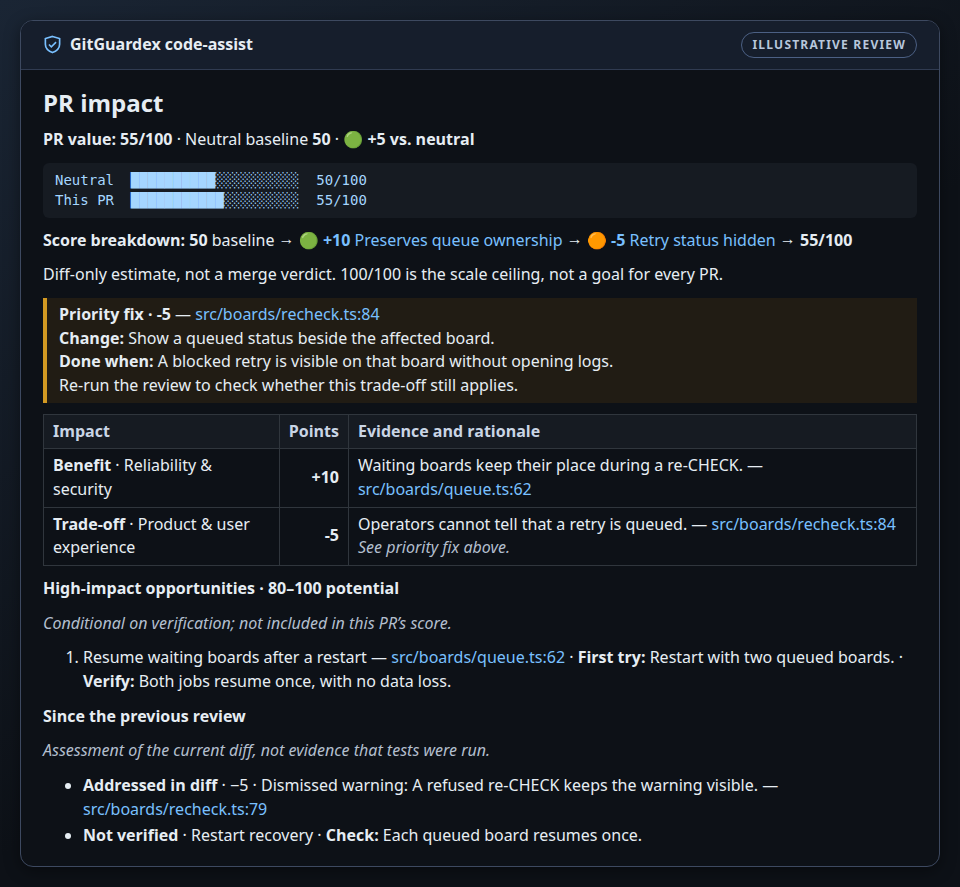
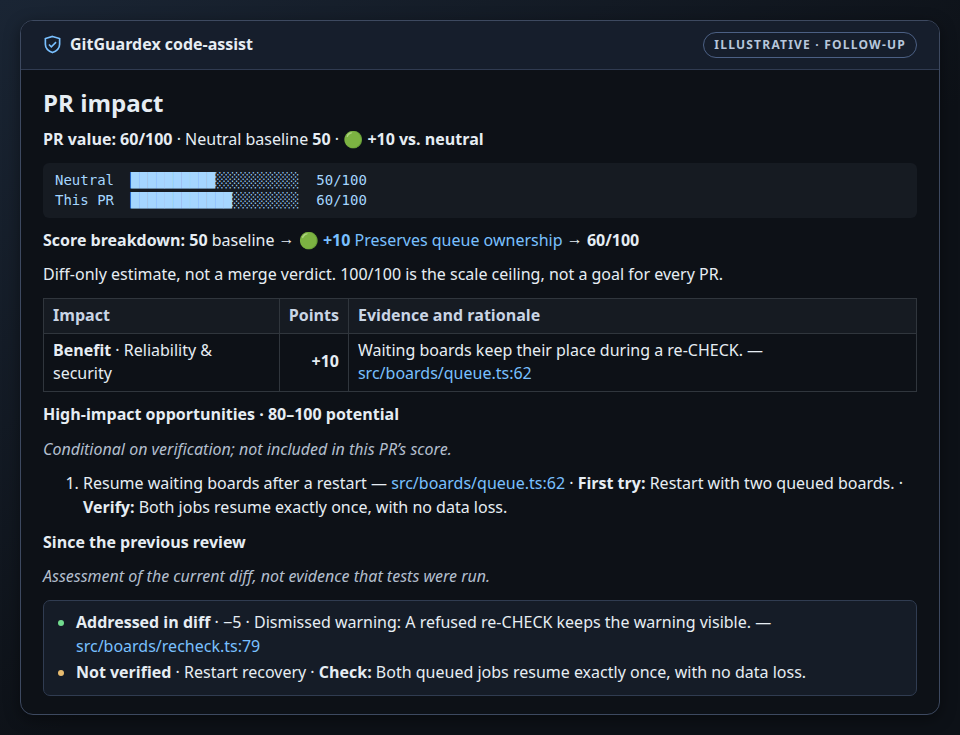
docs: make the review demo follow a single fix
Show one trade-off before and after the fix, and distinguish an addressed diff from an unverified restart experiment.

Tested: GitHub Markdown rendering and Chromium checks at 1280px and 390px.

Changed region(s): [[0.0312, 0.0299, 0.9688, 0.9878], [0.375, 0.0, 0.9688, 0.0898]]

diff --git a/README.md b/README.md
@@ -80,7 +80,7 @@ If a diff exceeds the review size limit, split the PR to continue. A standalone 
 
 ### BugHunter demo
 
-BugHunter flags behavior to double-check, such as an action that can queue the same board twice. It runs alongside the main review and does not change the merge verdict.
+BugHunter flags possible bugs, such as a second click queuing the same board twice. Its findings do not block a merge.
 
 [![Illustrative BugHunter review with two findings, file locations, and a note that the merge gate is unaffected.](./docs/images/bughunter-demo.png)](./docs/images/bughunter-demo.png)
 
@@ -90,13 +90,18 @@ BugHunter flags behavior to double-check, such as an action that can queue the s
 
 **Code review asks what could break. Impact Assist asks what the repository gains or gives up by merging.** The review renders this as a **PR impact** section: benefits, trade-offs, links to supporting diff lines, and suggested next steps when available.
 
-For example, a material benefit (**+25**) and a notable trade-off (**−10**) yield **65/100** from a neutral baseline of **50**. That is a diff-based estimate, not a benchmark or a merge verdict. If the diff is incomplete or the estimate has no valid supporting evidence, the section reports it as unavailable.
+The neutral baseline is **50**. The score is an estimate based on the diff, not a test result or a merge verdict. If the diff is incomplete or the estimate has no valid supporting evidence, the section reports it as unavailable.
 
 ### Impact Assist demo
 
-The chart compares this PR with the neutral baseline. For a trade-off, the review can show a fix and a pass condition. Bigger ideas include a small first experiment, and a later review can show what changed in the diff and what still needs verification.
+One change, two reviews:
 
-[![Illustrative PR impact review: 55/100 vs. 50 neutral, a priority fix for a −5 trade-off, a two-board restart experiment, and what changed since the previous review.](./docs/images/pr-impact-advisory-demo.png)](./docs/images/pr-impact-advisory-demo.png)
+- **First review · 55/100:** Waiting boards keep their place (**+10**), but a refused re-CHECK dismisses the active board’s warning (**−5**). Keep the warning visible until the operator dismisses it.
+- **Follow-up review · 60/100:** In the updated diff, a refused re-CHECK leaves the warning visible. The **−5** no longer applies.
+
+**Not yet verified:** recovery after a restart. First try: restart with two queued boards and check that both jobs resume exactly once, with no data loss.
+
+[![Illustrative follow-up: the chart shows 60/100; the missing warning is addressed in the diff and restart recovery is not verified.](./docs/images/pr-impact-advisory-demo.png)](./docs/images/pr-impact-advisory-demo.png)
 
 [See Impact Assist on a real GitGuardex PR](https://github.com/opencue/gitguardex/pull/907#pullrequestreview-6073301390).
 
